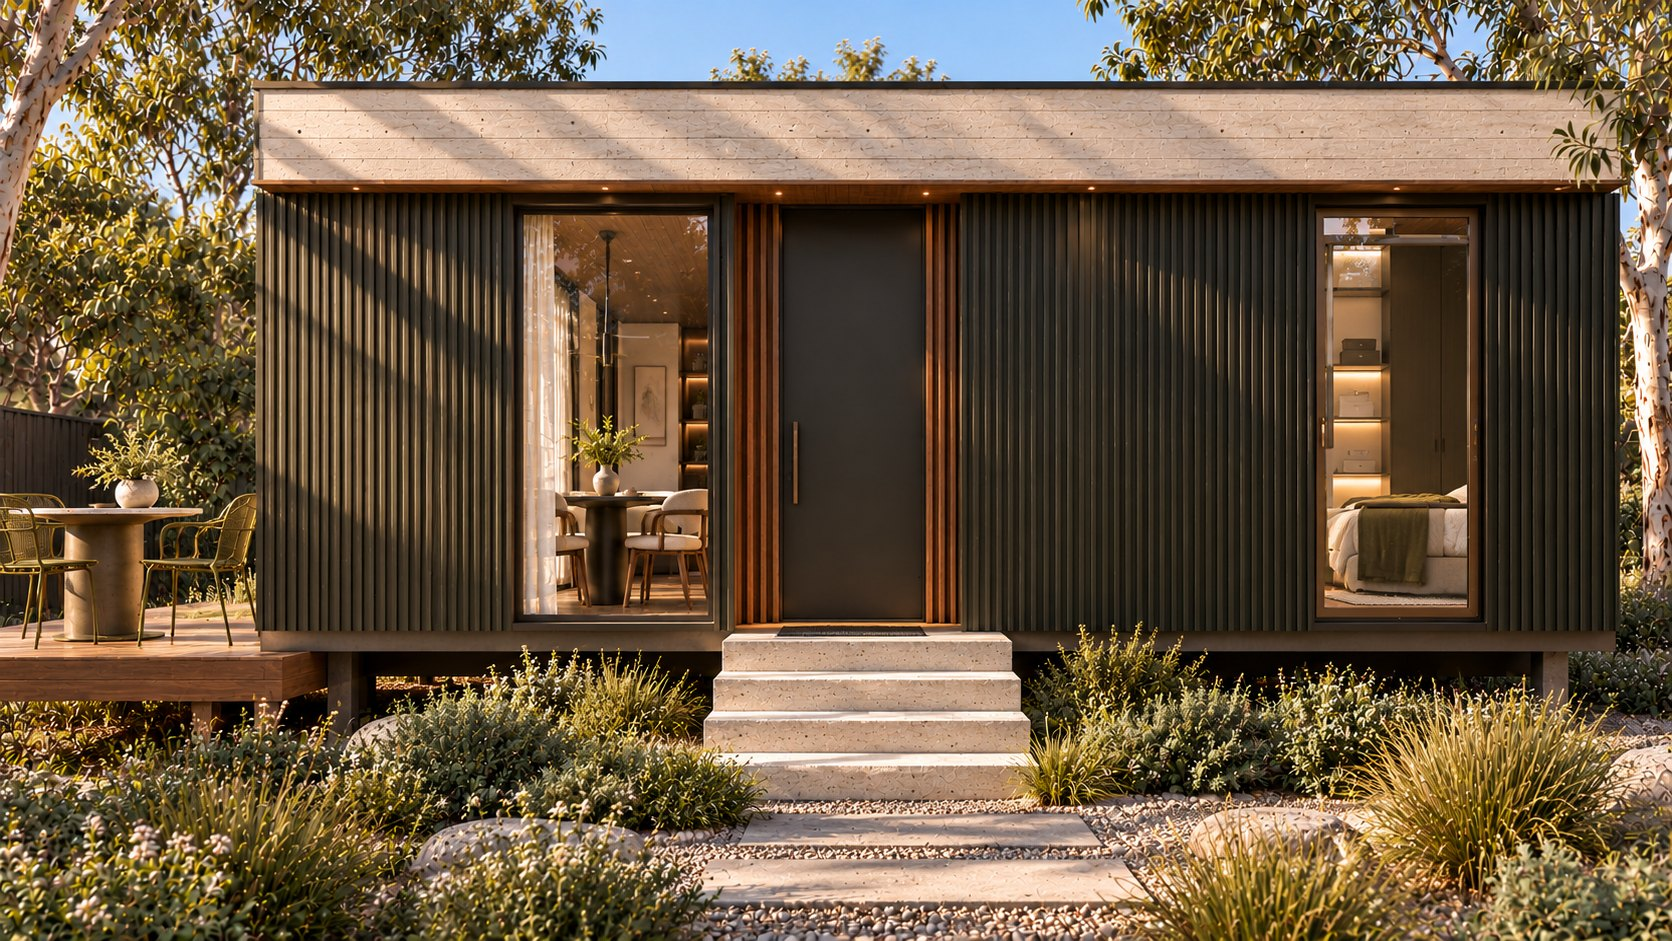
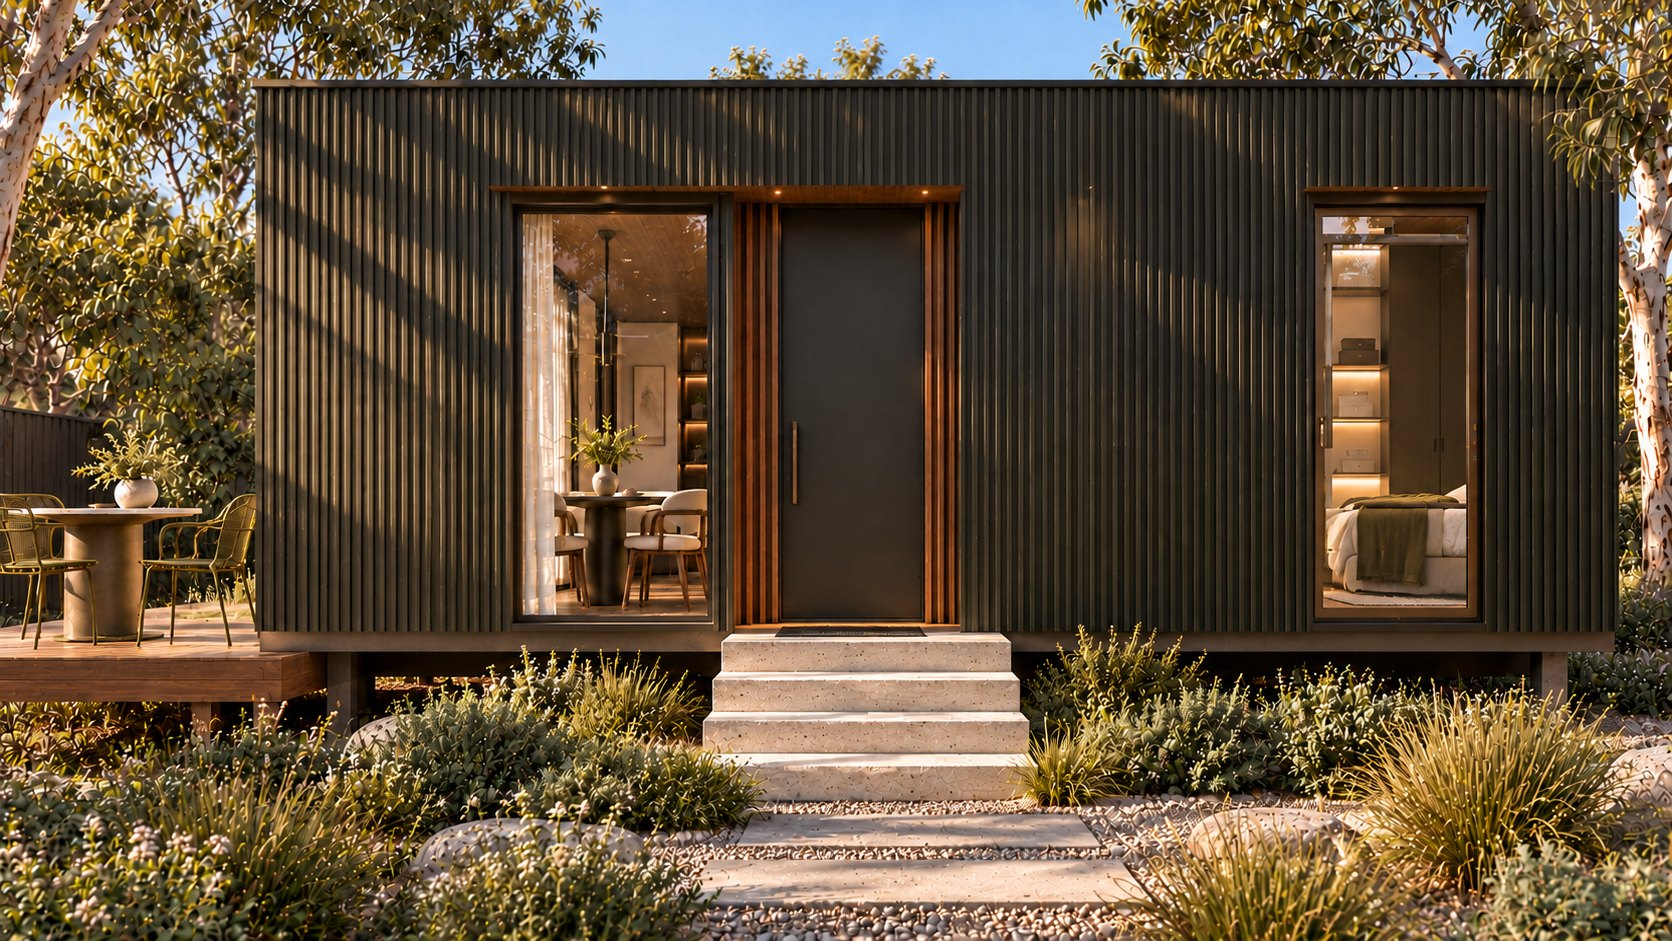
HAAVN BLACK display: SOLUM Studio Urban Earth side entry is the corrected render (cladding continuous to the roof)

diff --git a/public/haavn-black-display/solum.html b/public/haavn-black-display/solum.html
@@ -7519,7 +7519,7 @@ html[data-model="studio"] [data-res="film"] { display: none; }
         </button>
       </figure>
       <figure class="exterior exterior--ux-entry">
-        <img class="exterior__img" data-model="studio" data-variant="urban" data-src="img/ext/urban-studio-b.jpg" alt="SOLUM Studio in Urban Earth: the entry, a matte black door in its ivory concrete portal" width="1672" height="941" aria-hidden="true" loading="lazy" decoding="async">
+        <img class="exterior__img" data-model="studio" data-variant="urban" data-src="img/ext/urban-studio-b.jpg" alt="SOLUM Studio in Urban Earth: the side entry, a matte black door between walnut fins, the cladding running to the roof" width="1672" height="941" aria-hidden="true" loading="lazy" decoding="async">
         <button class="peek peek--clock" type="button" data-clock="view"
                 aria-pressed="false" aria-label="Show this view after dark">
           <svg viewBox="0 0 24 24" aria-hidden="true" focusable="false">
@@ -7870,7 +7870,7 @@ html[data-model="studio"] [data-res="film"] { display: none; }
     <aside class="finish" aria-label="About this cladding">
       <div class="finish__copy is-shown" data-variant="urban">
         <p class="finish__name">Urban Earth</p>
-        <p class="finish__story">Ivory board-formed concrete around every opening, walnut fins and soffits, and smoked olive satin metal for the walls. Warm and grounded, it sits as easily on a suburban street as in the bush, and the walnut glows when the lights come on at dusk.</p>
+        <p class="finish__story">Ivory board-formed concrete, walnut fins and soffits, and smoked olive satin metal for the walls. Warm and grounded, it sits as easily on a suburban street as in the bush, and the walnut glows when the lights come on at dusk.</p>
         <p class="finish__key"><span>Ivory board-formed concrete</span><span>Walnut fins, smoked olive metal</span></p>
       </div>
       <div class="finish__copy" data-variant="obsidian">

diff --git a/public/haavn-black-display/index.html b/public/haavn-black-display/index.html
@@ -837,7 +837,7 @@ button.pr__row:hover .n { color: var(--atrium-gold); }
   var $ = function (s, r) { return (r || document).querySelector(s) }, $$ = function (s, r) { return [].slice.call((r || document).querySelectorAll(s)) };
   var Q = new URLSearchParams(location.search), TV = Q.has('tv');
   var APP = /^https?:/.test(location.protocol), EMBED = false; try { EMBED = (window.parent !== window) } catch (e) { EMBED = true }
-  var SOLV = '20261019d';
+  var SOLV = '20261020a';
   if (TV) document.body.classList.add('tv');
 
   /* ── the homes ───────────────────────────────────────────────────────── */

diff --git a/src/pages/HaavnDisplaySuite.tsx b/src/pages/HaavnDisplaySuite.tsx
@@ -27,7 +27,7 @@ export default function HaavnDisplaySuite({ onClose }: { onClose: () => void }) 
 
   return (
     <div style={{ position: 'fixed', inset: 0, zIndex: 700, background: '#0b0b0c', display: 'flex', flexDirection: 'column', paddingTop: 'env(safe-area-inset-top)', paddingBottom: 'env(safe-area-inset-bottom)', overflow: 'hidden', overscrollBehavior: 'none' }}>
-      <iframe title="HAAVN BLACK Display" src="/haavn-black-display/index.html?v=20261019d" allow="fullscreen; autoplay"
+      <iframe title="HAAVN BLACK Display" src="/haavn-black-display/index.html?v=20261020a" allow="fullscreen; autoplay"
         style={{ flex: 1, width: '100%', height: '100%', border: 0, display: 'block' }} />
     </div>
   )
